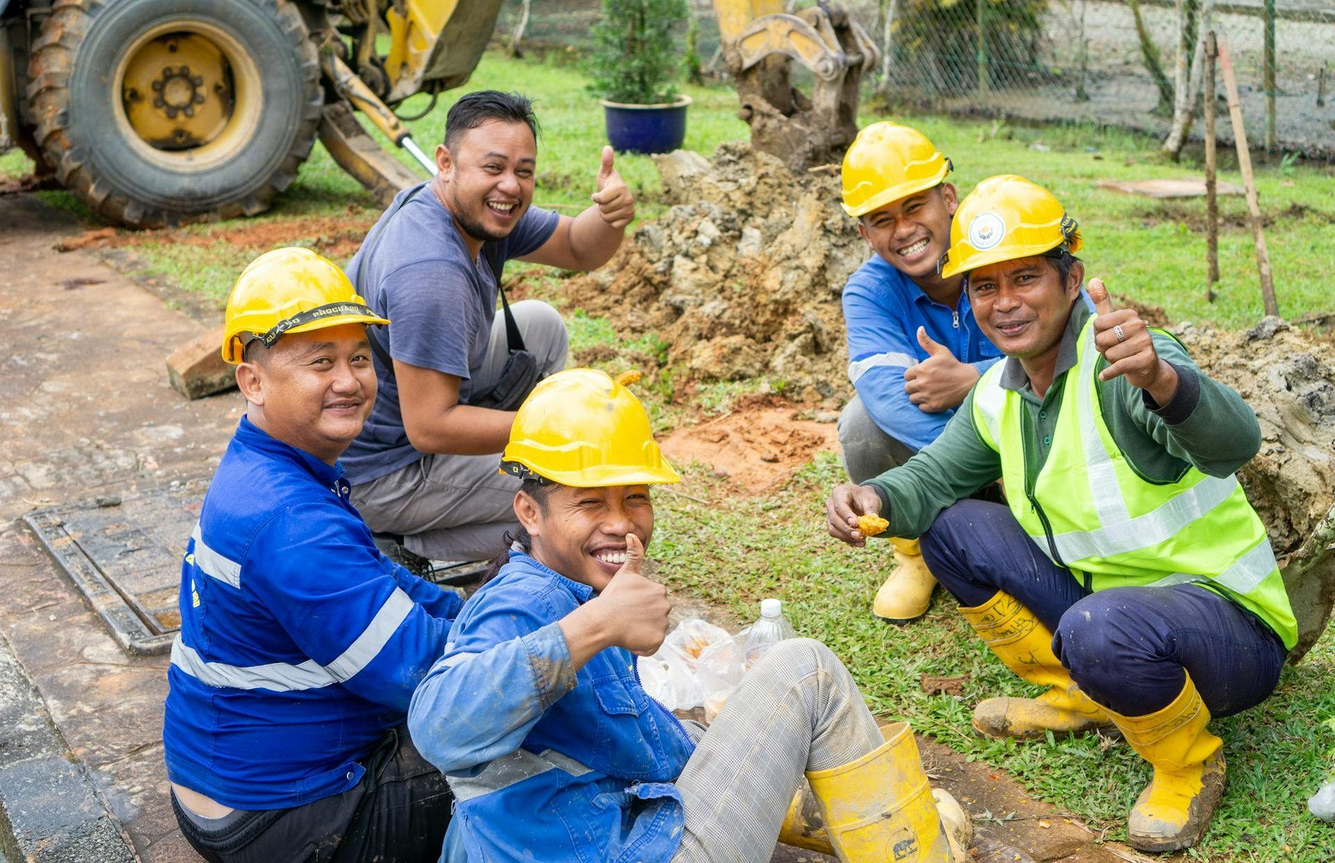
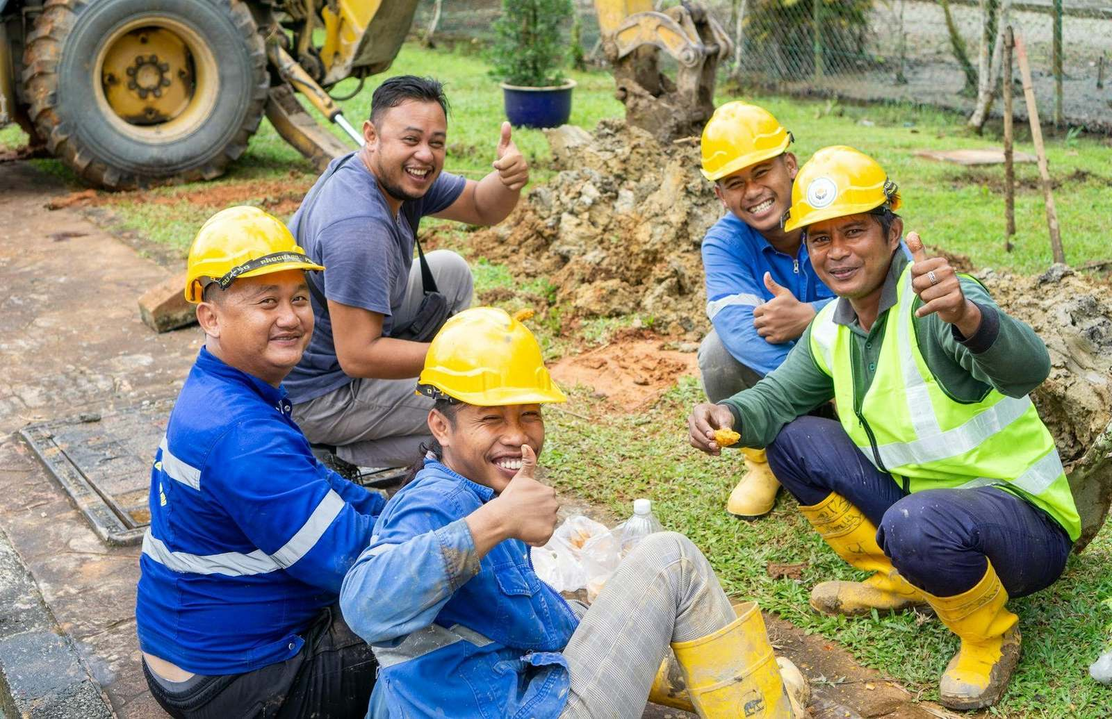
perf: WebP + image-set, personel-hero compress, sr-only inline fix
- personel-hero.jpg: 434KB → 245KB (q62, 1600w)
- personel-hero.webp: yeni 216KB (q70, modern tarayıcılar için)
- index.html: panel 5 + service card → image-set ile WebP/JPG fallback
- service1.jpg: orphan dosya silindi (403KB)
- index.html h1: ds-sr-only class CSS parse edilmiyordu, inline style ile değiştirildi
- style.css: kullanılmayan .ds-sr-only rule kaldırıldı

Beklenen mobil PageSpeed: 74 → 80+ (LCP element küçüldü)

diff --git a/site/index.html b/site/index.html
@@ -178,7 +178,7 @@
     </nav>
 
     <main>
-        <h1 class="ds-sr-only">Dev/Soy Danışmanlık — KKTC'nin Öncü Danışmanlık Firması · Casino Eğlence Turizmi, Personel Tedarik, Kurumsal Danışmanlık, Evrak Takip ve Eğitim Hizmetleri</h1>
+        <h1 style="position:absolute;width:1px;height:1px;padding:0;margin:-1px;overflow:hidden;clip:rect(0,0,0,0);white-space:nowrap;border:0;">Dev/Soy Danışmanlık — KKTC'nin Öncü Danışmanlık Firması · Casino Eğlence Turizmi, Personel Tedarik, Kurumsal Danışmanlık, Evrak Takip ve Eğitim Hizmetleri</h1>
         <!-- Hero Section - Marvel Panels -->
         <section class="ds-hero ds-hero--panels" id="anasayfa">
 
@@ -261,7 +261,7 @@
 
                 <!-- 05 — Personel Tedarik -->
                 <div class="ds-panel">
-                    <div class="ds-panel__bg" style="background-image:url('images/personel-hero.jpg');"></div>
+                    <div class="ds-panel__bg" style="background-image:url('images/personel-hero.jpg');background-image:image-set(url('images/personel-hero.webp') type('image/webp'),url('images/personel-hero.jpg') type('image/jpeg'));"></div>
                     <div class="ds-panel__tint" style="background:rgba(15,15,15,0.58);"></div>
                     <div class="ds-panel__inner">
                         <span class="ds-panel__num">05</span>
@@ -352,7 +352,7 @@
                         <p style="color: #666; font-size: 0.85rem; line-height: 1.6; flex: 1; position: relative; z-index: 1;">Çalışma izni, oturma izni, vatandaşlık başvuruları ve tüm resmi evrak işlemlerinin takibi.</p>
                         <span style="color: var(--gold); font-size: 0.85rem; font-weight: 600; margin-top: 1rem; display: inline-block; position: relative; z-index: 1;">Evrak Takip Hakkında &rarr;</span>
                     </a>
-                    <a href="pages/personel_tedarik_page.html" class="ds-detail-card ds-service-card" style="text-align: center; text-decoration: none; color: inherit; display: flex; flex-direction: column; background: linear-gradient(to bottom left, rgba(255,255,255,0) 15%, rgba(255,255,255,0.94) 50%), url('images/personel-hero.jpg') top right/50% 100% no-repeat, #fff; overflow: hidden; position: relative;">
+                    <a href="pages/personel_tedarik_page.html" class="ds-detail-card ds-service-card" style="text-align: center; text-decoration: none; color: inherit; display: flex; flex-direction: column; background: linear-gradient(to bottom left, rgba(255,255,255,0) 15%, rgba(255,255,255,0.94) 50%), image-set(url('images/personel-hero.webp') type('image/webp'), url('images/personel-hero.jpg') type('image/jpeg')) top right/50% 100% no-repeat, #fff; overflow: hidden; position: relative;">
                         <div style="width: 56px; height: 56px; background: var(--dark); border-radius: 50%; display: flex; align-items: center; justify-content: center; margin: 0 auto 1.2rem; position: relative; z-index: 1;">
                             <i class="fas fa-user-tie" style="font-size: 1.3rem; color: var(--gold);"></i>
                         </div>

diff --git a/site/css/style.css b/site/css/style.css
@@ -21,19 +21,6 @@
          url('https://cdnjs.cloudflare.com/ajax/libs/font-awesome/6.5.1/webfonts/fa-brands-400.ttf') format('truetype');
 }
 
-/* Screen-reader-only utility (WCAG visually hidden pattern) */
-.ds-sr-only {
-    position: absolute;
-    width: 1px;
-    height: 1px;
-    padding: 0;
-    margin: -1px;
-    overflow: hidden;
-    clip: rect(0, 0, 0, 0);
-    white-space: nowrap;
-    border: 0;
-}
-
 /* CSS Variables */
 :root {
     --gold: #C9A84C;
